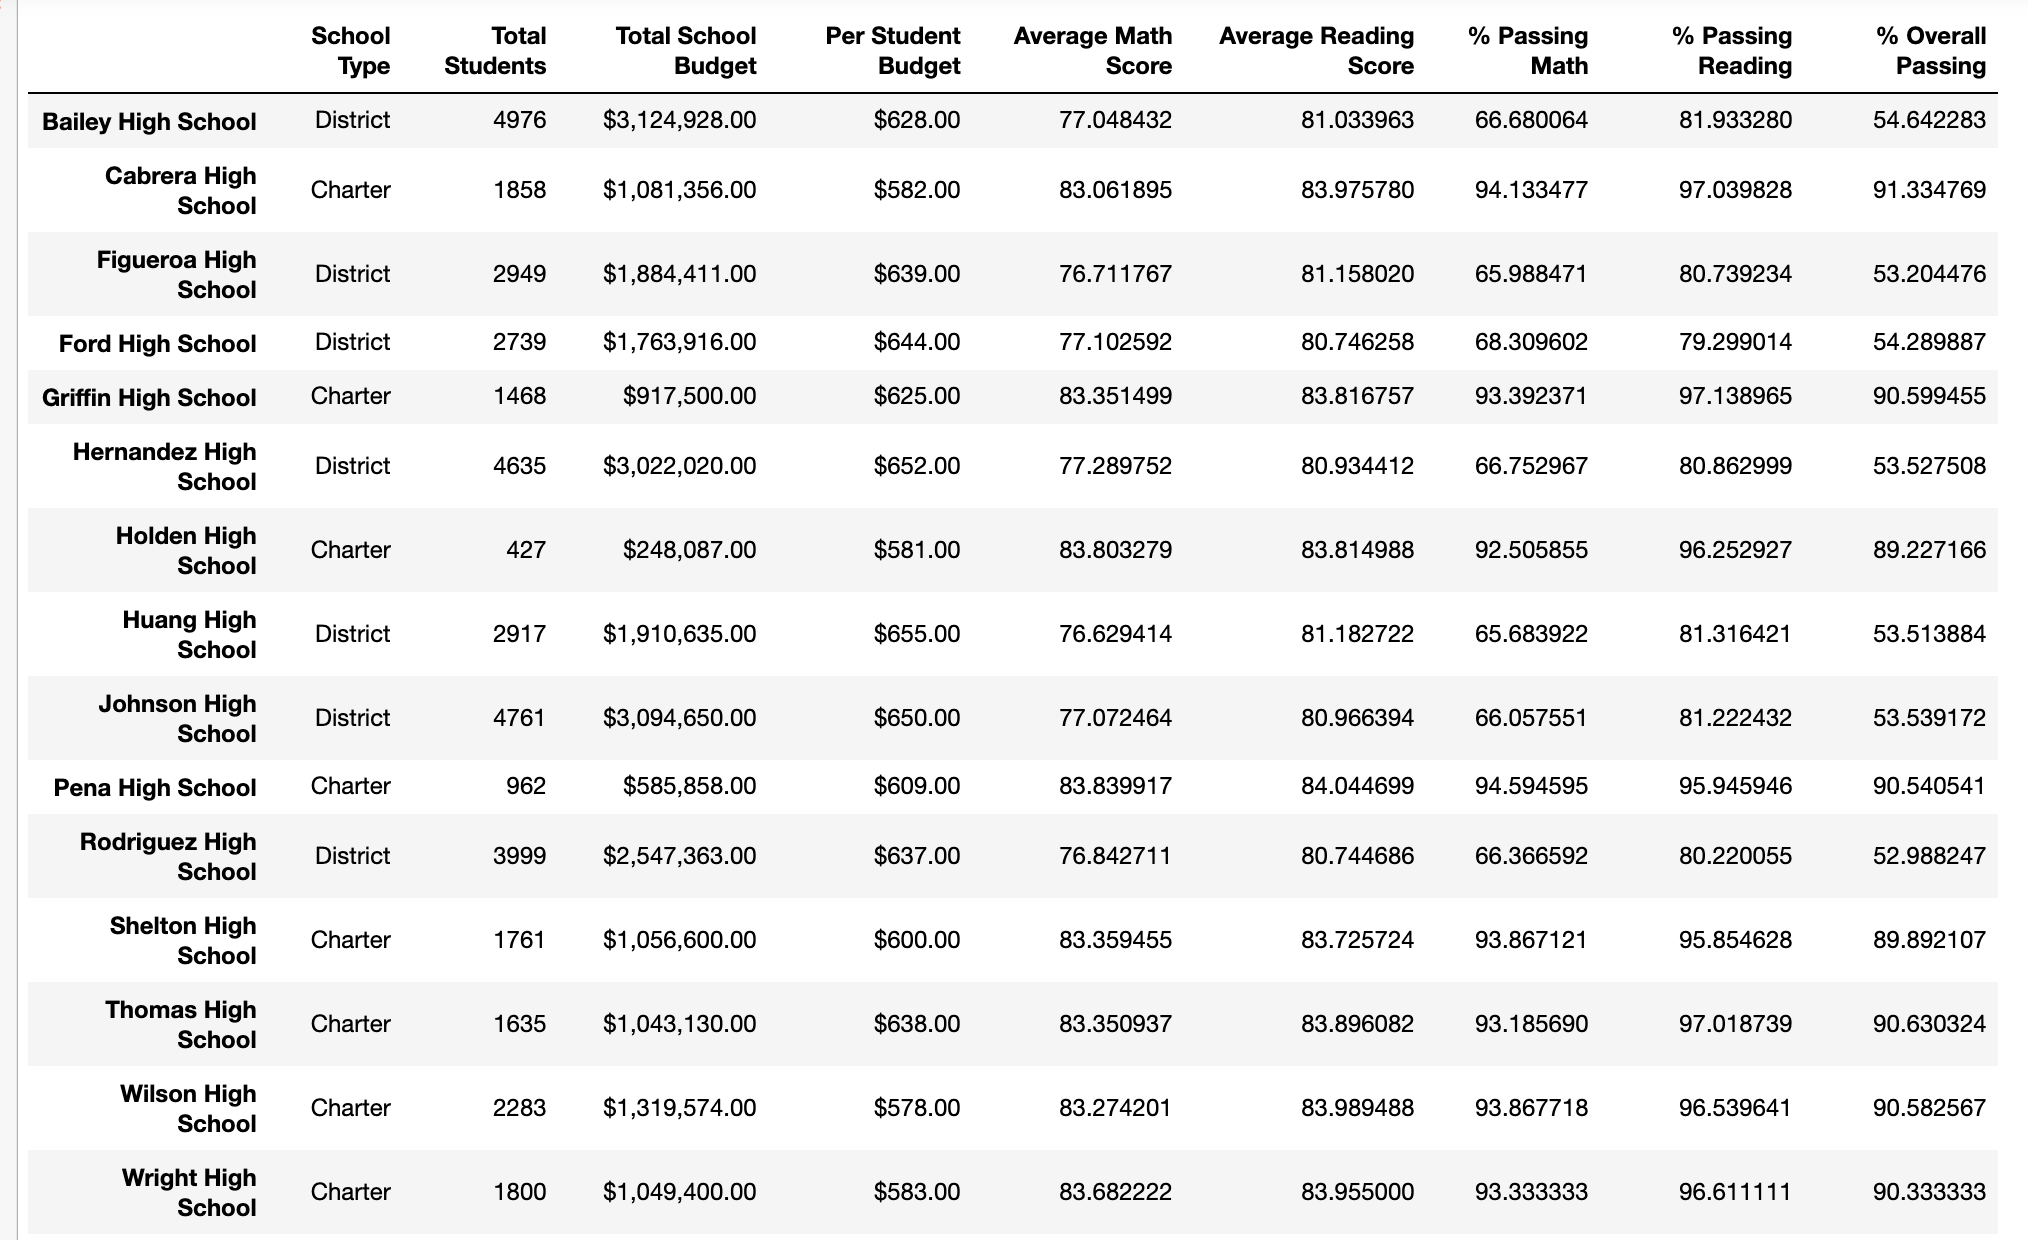
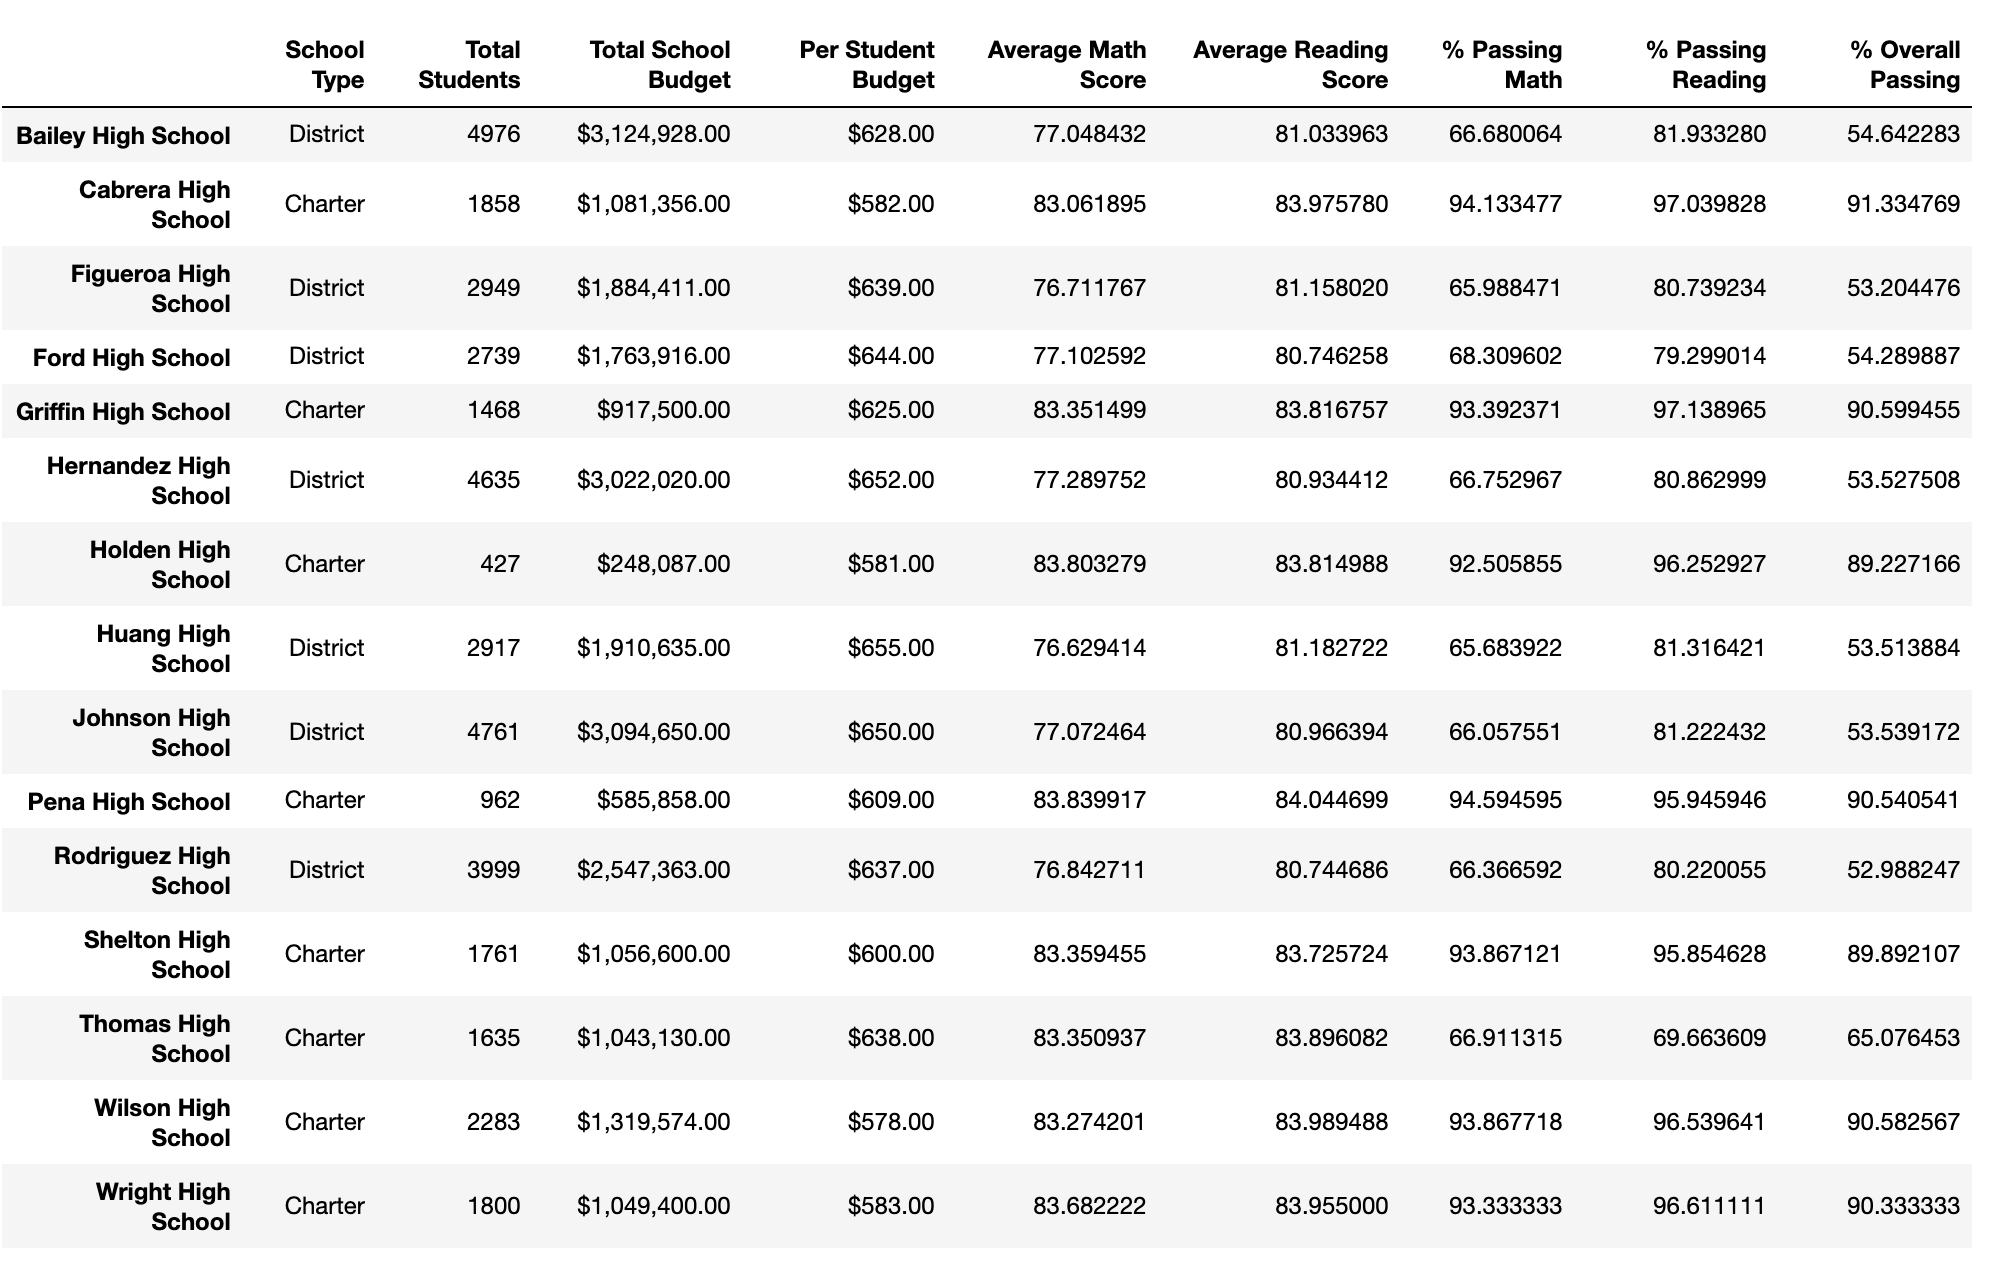
final

diff --git a/README.md b/README.md
@@ -14,11 +14,6 @@ The purpose of this project is to display information within a School District. 
 7. Score results by school type
 
 ## Results
-My first draft of the code included score for 9th grade Thomas High Students.  Below are the results for district and school summaries:
-
-<img width="971" alt="District_Summary_Before" src="https://user-images.githubusercontent.com/63257696/118317440-0f691000-b4c6-11eb-821b-8d58d395e4c8.png">
-
-<img width="997" alt="School_Summary_Before" src="https://user-images.githubusercontent.com/63257696/118317454-12640080-b4c6-11eb-9ad4-2e251eed6e72.png">
 
 I started with cleaning the data and replacing all 9th grade Thomas High School scores with "NaNs" so their names would be included in the analysis, but their score would not.  I did this by creating a series of all 9th grade Thomas High Students, and looping through the series to replace all the scores with "NaNs".  After confirming the all 9th grade Thomas scores were "NaNs", I proceded with the analysis. 
 
@@ -33,13 +28,15 @@ I started with cleaning the data and replacing all 9th grade Thomas High School 
 
 <img width="1014" alt="School_Summary_After" src="https://user-images.githubusercontent.com/63257696/118317522-2b6cb180-b4c6-11eb-9a1f-66a4f9f081e9.png">
  <br /> 
- 
+
  The scores for Thomas High changed after we removed the 9th grade scores.  You can see that again, the values in each category dropped by a few percentage points. 
  
+Making the altercation to only showing the percentage passing for 10th-12th grade is important because without this, the percentage passing would have shown much lower percentages due that the total count of students remained the same, the count of students with valid scores is lower.  The percentages would have been in the 60s range if we did not take into account this altercation.
 
-3. From the school summary, I was able to get the top 5 and bottom 5 performing schools, by sorting through data frame.  
 
-4.  Ifiltered through the school data and set it equal to new variables in order to get the avergae scores for both reading and math by grade.  Despite the changes in data we made, Thomas High remains in the second spot for highest performing schools.
+3. From the school summary, I was able to get the top 5 and bottom 5 performing schools, by sorting through data frame.  Despite the changes in Thomas High, the school still remained in the second spot for top performing schools.
+
+4.  I filtered through the school data and set it equal to new variables in order to get the avergae scores for both reading and math by grade.  
 
 5. I put the school data in bins based off the amount of budgeting each school has.  I used the cut function to put the school data in these the "spending bins" and show the average score and percentages passing per each spending bin.  
 
@@ -51,5 +48,5 @@ I started with cleaning the data and replacing all 9th grade Thomas High School 
 
 ## Summary
 
-Changing the 9th grade Thomas High score data was a small, but important part of my analysis that changes the results.  Replacing the data was "Nans" changed how the average scores for math and reading were calculated for the district as a whole and for Thomas High.  It also altered how the percentages passing math and reading were calculated.  Nulling the data caused different results than what we would have seen if the score data was left alone.
+Changing the 9th grade Thomas High score data was a small, but important part of my analysis that changed the results.  Replacing the data was "Nans" changed how the average scores for math and reading were calculated for the district as a whole and for Thomas High.  It also altered how the percentages passing math and reading were calculated.   When working with nulled data, it is import to make the appropraite altercations for mathmatical calculation because the nulled data can affect the way metrics are calcuated.  We saw in the school summary that the passing percentages for Thomas High would have incorrectly been shown as lower perentages if we did not take into account that we were only looking for score data from 10th-12th grade.  The percentage calculation would have been done with the entire school count, including ninth graders.  Because the ninth grade data is invalid, it would not pull into the calculation, therefore providing inaccurate results. 
 
